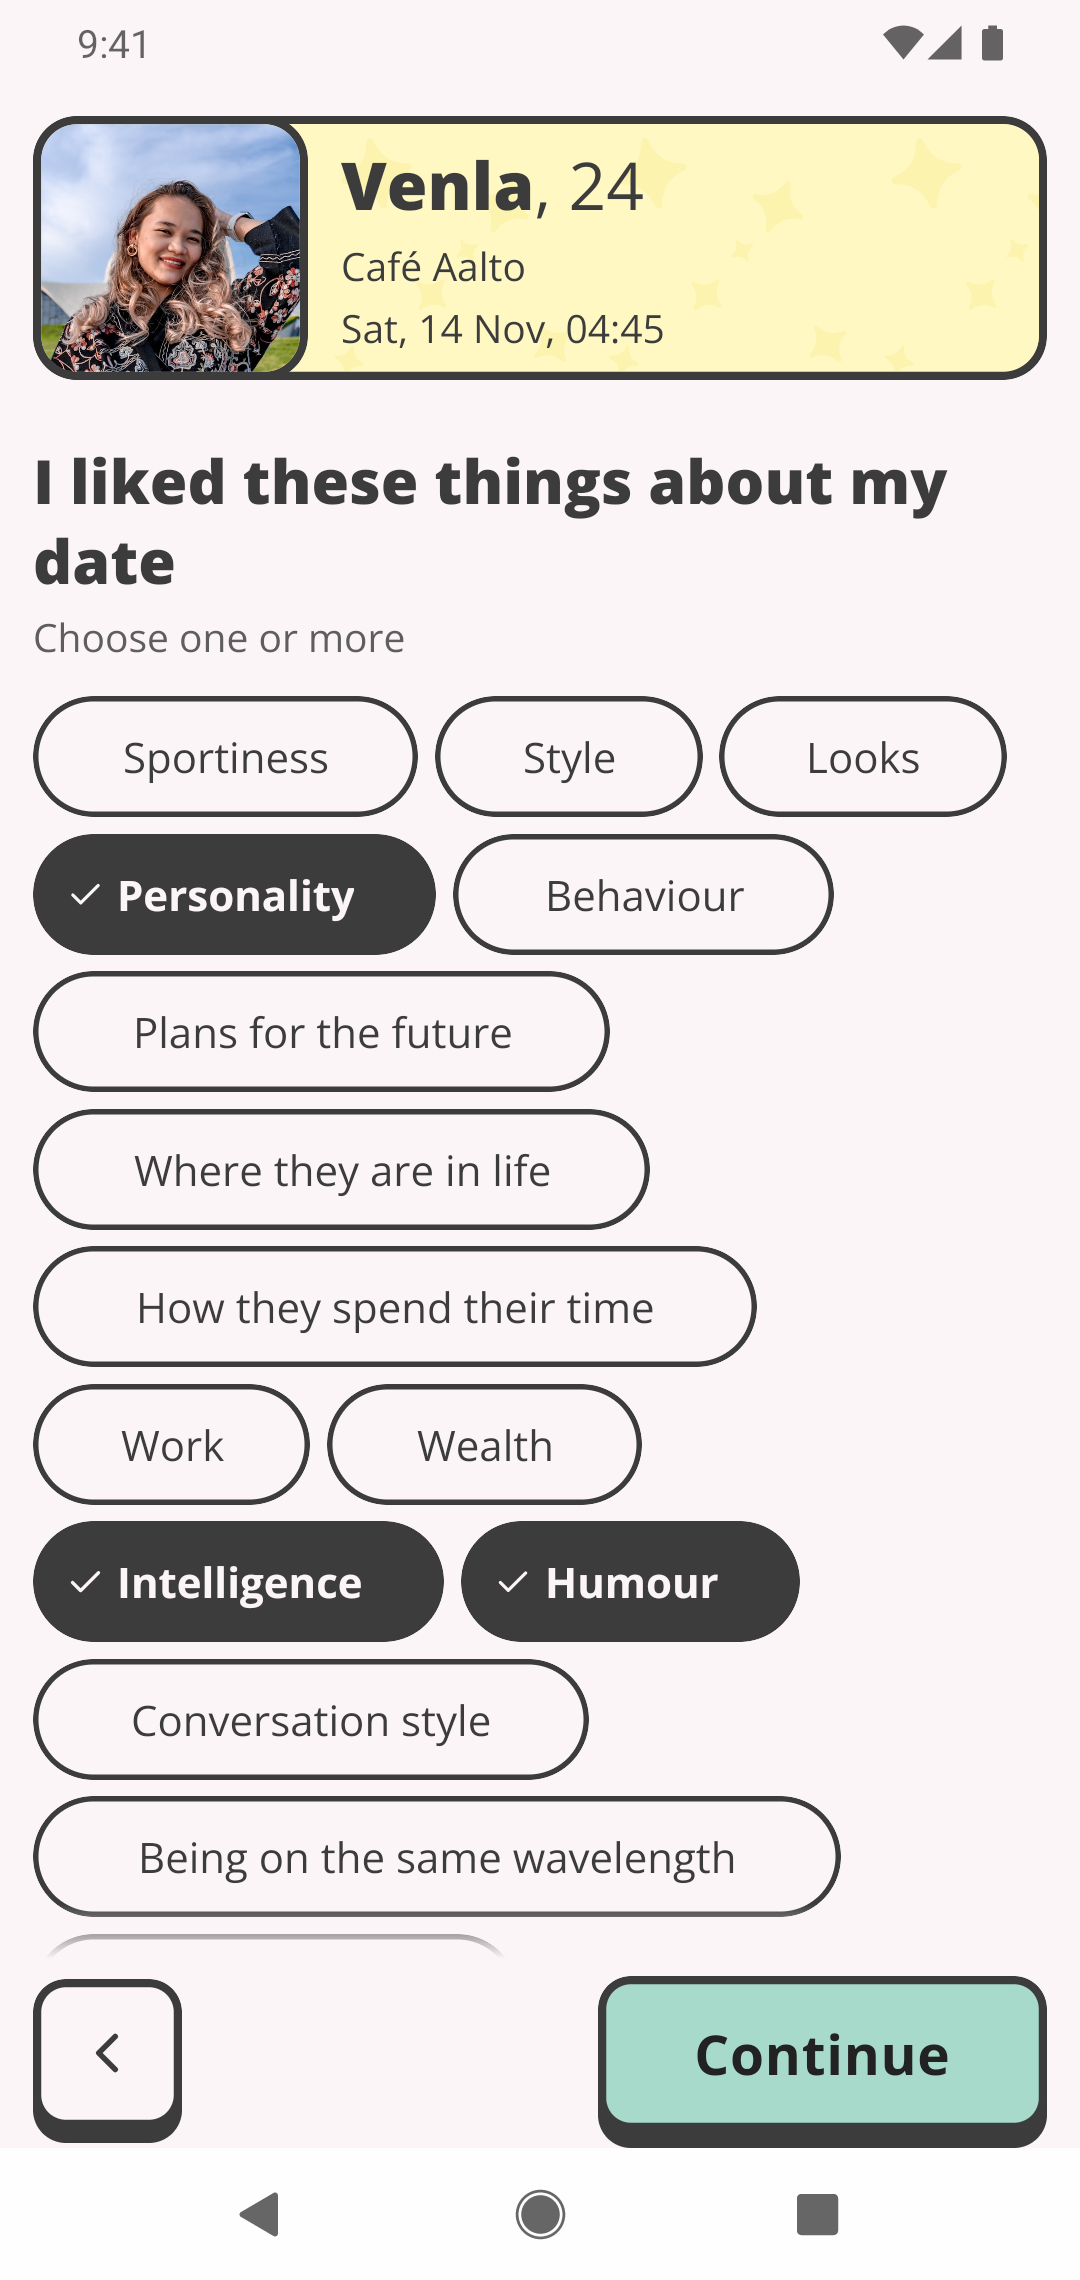
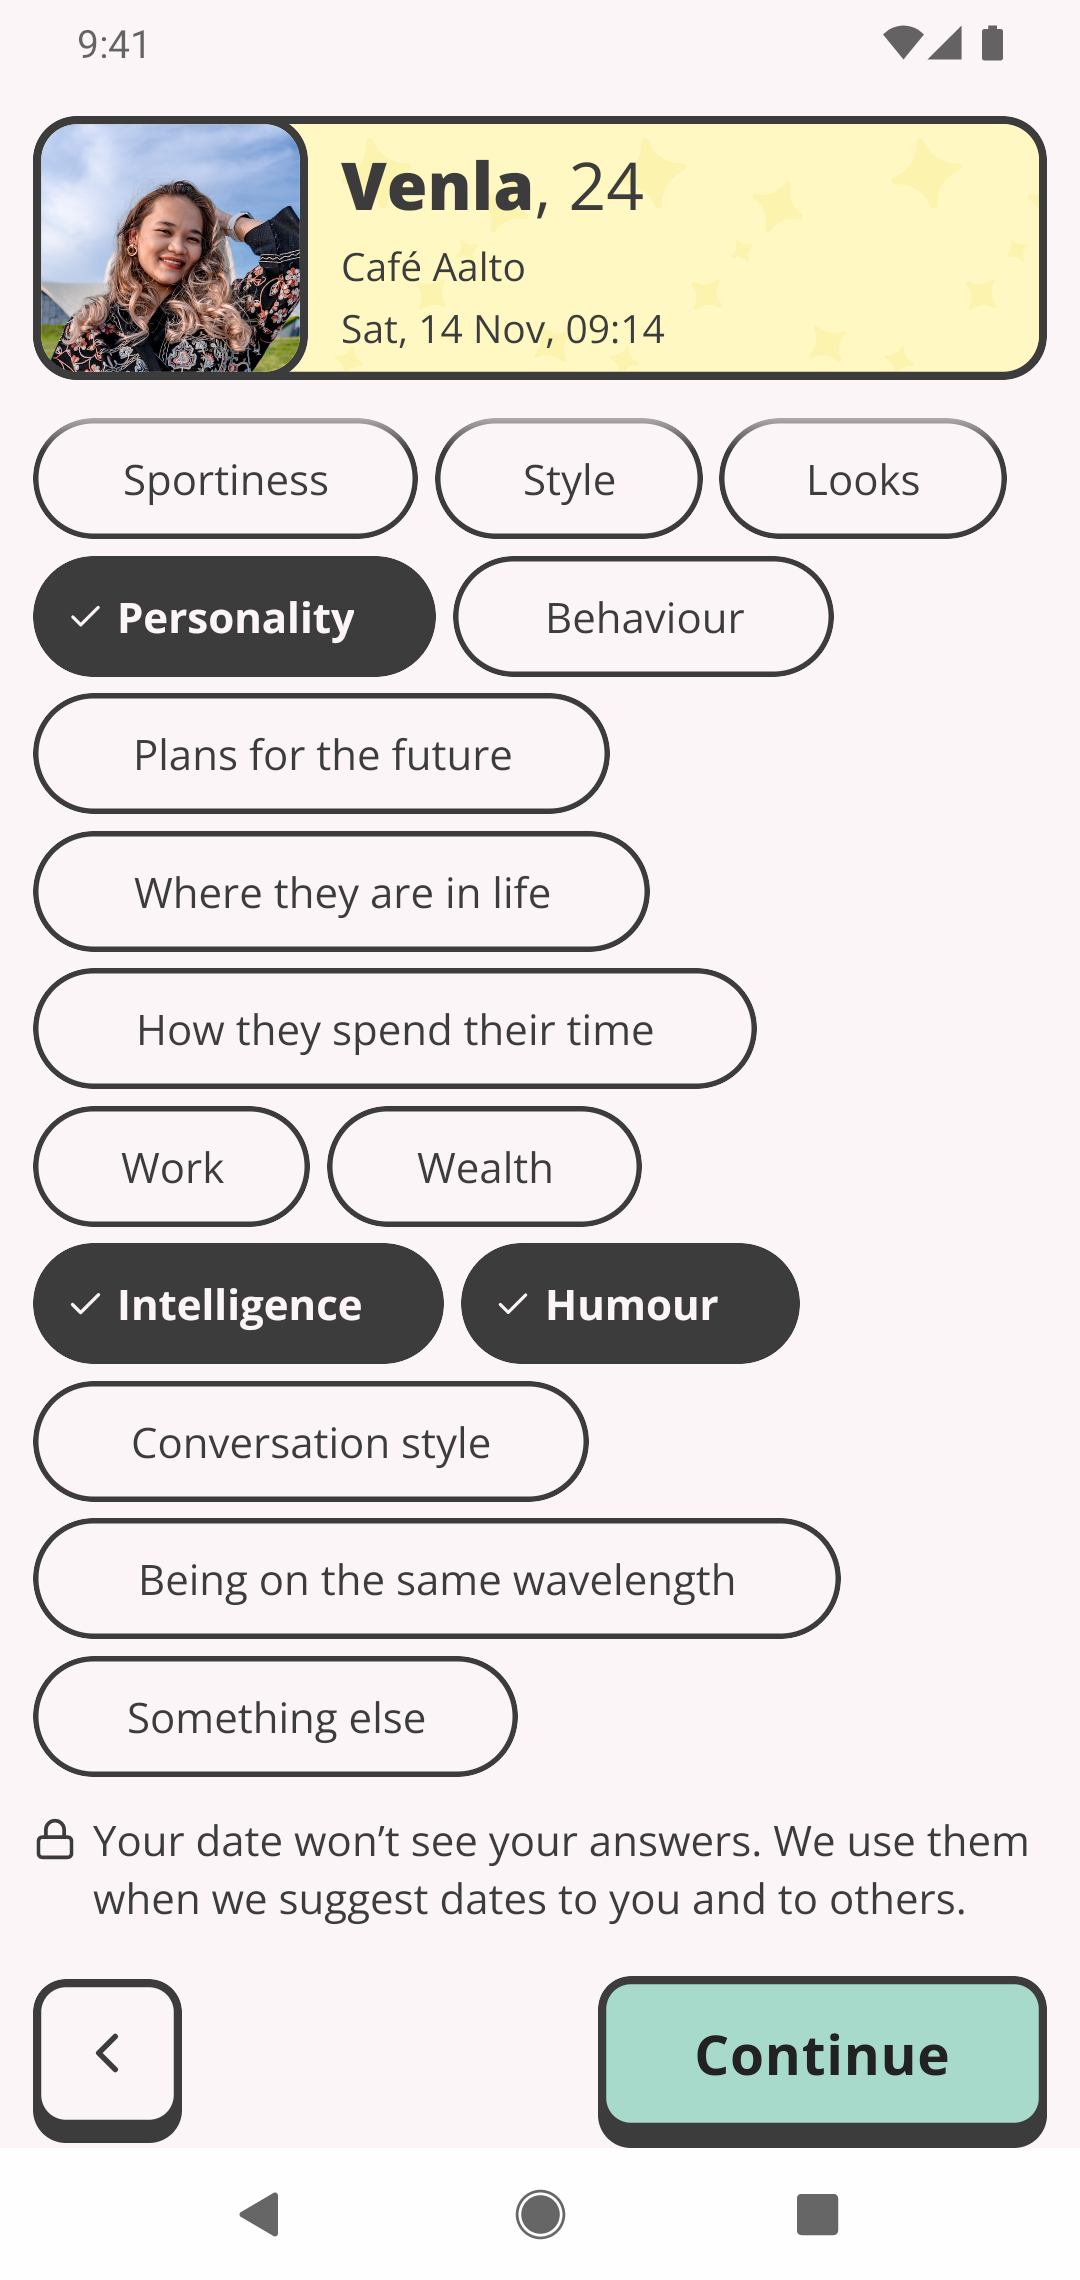
pictures: the English feedback stills, with the line under the chips in view
feedback-en had its last chip row and the lock line under the footer; the
marketing flow (pilke-app 37d5bcd) now scrolls the line into view. The
guide's English still is retaken for "What you didn’t like" under both OK
and Badly (treffit-backend 3f8ccf4).

Claude-Session: https://claude.ai/code/session_01GD9L6NkBiCqNs6T5pZN8hJ

diff --git a/docs/pictures.md b/docs/pictures.md
@@ -176,7 +176,7 @@ the flow inside it, and "in English" means that flow's copy derived by `manual-s
 | `platter-en` | Candidates, English | `screenshotPlatter.yaml` in English | What `platter` shows, in English: `Candidates`, `Times`, `Places`, `Propose!`. Drawn on `/en` in place of `platter` |
 | `invitation-en` | Invitation received, English | `screenshots.yaml` in English | What `invitation` shows, in English: `Choose a time and a place`, `Decline`, `Back`, `Agreed!`. Drawn on `/en` in place of `invitation`, and set into `beta-invitation-en` |
 | `feedback` | Date feedback, *Pidin näistä asioista treffiparissani* | `screenshotFeedback.yaml`, as Venla, whose Finnish account gets the questions in Finnish: *Hyvin*, then *Luonne*, *Älykkyys* and *Huumori* ticked by position | The date's own Treffit card (partner, venue, time) at the top, the facet question with *Valitse yksi tai useampi* under it, its fifteen facets as chips with three of them ticked, the lock line *Treffiparisi ei näe vastauksiasi…* under the chips, and the pinned footer: the back button and an enabled `Jatka`. The step as somebody answers it, on the front page's fourth step and `nain-se-toimii`'s *Treffien jälkeen* |
-| `feedback-en` | Date feedback, the facet question, English | `screenshotFeedback.yaml` in English, as Juho, whose account is English | The same step in English, `Continue`. The English chips are wider, so the last row and the lock line fall under the footer. Drawn on `/en` in place of `feedback` |
+| `feedback-en` | Date feedback, the facet question, English | `screenshotFeedback.yaml` in English, as Juho, whose account is English | The same step in English, `Continue`. The English chips are wider, so the flow scrolls until the lock line is in view and the heading goes under the date card. Drawn on `/en` in place of `feedback` |
 | `mieltymykset` | Question set *Mieltymykset*, two answers picked | `screenshotMieltymykset.yaml`, as the platter's account, its Mieltymykset answers cleared before and after | The back button, the set's title and its `2/3` progress, *Haluan joskus lapsia* with *En osaa sanoa* picked, *Poltan tupakkaa* with *En, mutta se ei haittaa minua* picked, and the head of *Unelmoin maalla asumisesta*, at the top of the screen as it opens. Server copy in the account's language, so it goes stale on the survey's wording. Drawn on the front page's first step, under the page's own *Tulossa pian* chip |
 | `mieltymykset-en` | The same, English | `screenshotMieltymykset.yaml` in English | *Preferences*, *I can't say* and *No, but it doesn't bother me*. Drawn on `/en` in place of `mieltymykset` |
 | `preferences` | Settings, Omat tiedot, the *Toiveet* page, on `nain-se-toimii`'s first section | `screenshotPreferences.yaml`, as the platter's account | The back button and the page's title `Toiveet`, `Treffiparin sukupuoli` with its three options, `Minimi-ikä` and `Maksimi-ikä` filled in on the screen (25 and 38, never saved), `Mitä odotat treffeiltä?` with both answers, the languages with Suomi and Svenska, and the page's pinned `Tallenna`. No tab bar, no name and no photo |
